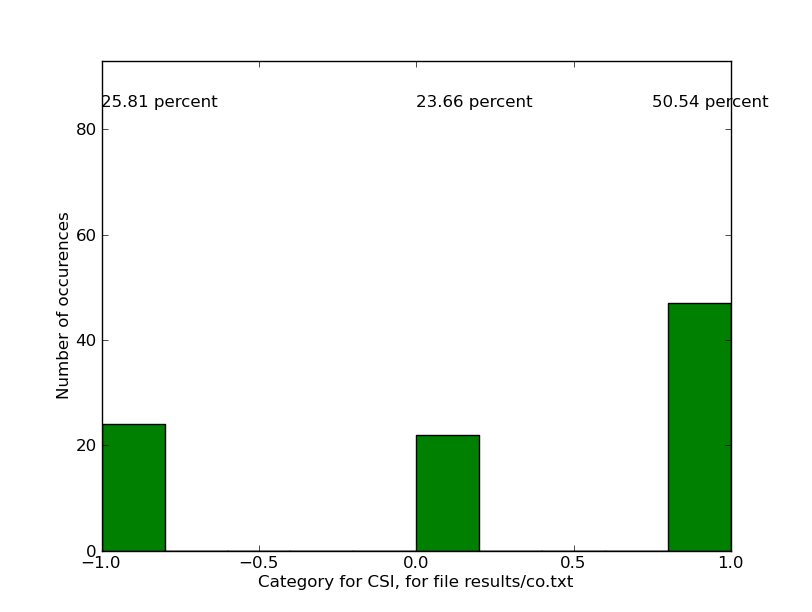
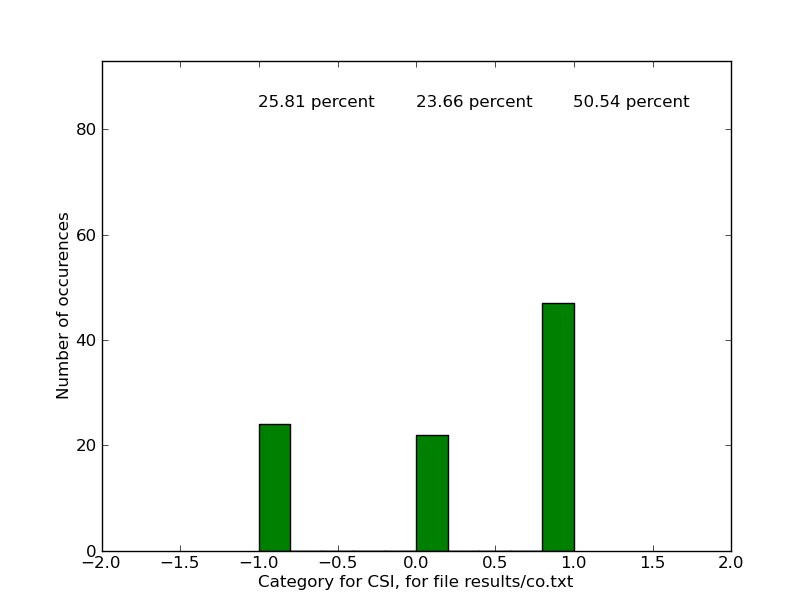
more histograms

diff --git a/make_histograms.py b/make_histograms.py
@@ -20,7 +20,7 @@ def read_line_position(lines, pos):
 	histList = []
 	for line in lines:
 		splits = line.split(' ')
-		print splits[pos]
+		#print splits[pos]
 		# in case we have endline chars:
 		splits[pos] = splits[pos].replace('\n', '')
 		histList.append(float(splits[pos]))
@@ -32,7 +32,7 @@ def make_plot(histList, f1):
 	plt.hist(histList, facecolor='g')
 	plt.ylabel('Number of occurences')
 	plt.xlabel("Category for CSI, for file %s" % f1)
-	plt.axis([-1, 1, 0, len_list])
+	plt.axis([-2, 2, 0, len_list])
 	
 	neg1 = 0
 	for x in histList:
@@ -59,7 +59,7 @@ def make_plot(histList, f1):
 	
 	freq_neg1 = ((float(neg1) / float(len_list)) * 100.0)
 	freq_neg1 = "%3.2f percent" % freq_neg1
-	plt.text(0.75, (len_list * 0.9), freq_neg1)
+	plt.text(1, (len_list * 0.9), freq_neg1)
 	
 	plt.show()
 	
@@ -84,36 +84,38 @@ def get_diffs(list1, list2):
 def make_plot_diffs(histList, f1):
 	#nothing yet
 	len_list = len(histList)
-	plt.hist(histList, facecolor='g')
+	
+	# Notes on this:
+	### You will have to play with 'bin' arg to get good looking bars.
+	plt.hist(histList, facecolor='g', bins=50, normed=0)
 	plt.ylabel('Number of occurences')
 	plt.xlabel("Diff btwn Shifts, for file %s" % f1)
-	plt.axis([-5, 5, 0, len_list])
+	plt.axis([-5, 5, 0, len_list / 2])
 	plt.show()
 	
 	
-def load_graph(filename):
+def load_graph_1(filename):
 	lines = import_results(filename)
 	histList = read_line_position(lines, 2)
 	make_plot(histList, filename)
 	
+def load_graph_2(filename):
 	# load for diffs:
-	#lines = import_results(filename)
-	#histList1 = read_line_position(lines, 3)
-	#histList2 = read_line_position(lines, 4)
-	#histList3 = get_diffs(histList1, histList2)
-	#make_plot_diffs(histList3, filename)
-	
+	lines = import_results(filename)
+	histList1 = read_line_position(lines, 3)
+	histList2 = read_line_position(lines, 4)
+	histList3 = get_diffs(histList1, histList2)
+	make_plot_diffs(histList3, filename)
 	
 	
 	
 def main():
-	f1 = "results/ca.txt"
-	f2 = "results/cb.txt"
-	f3 = "results/co.txt"
+	file1 = "results/ca.txt"
+	file2 = "results/cb.txt"
+	file3 = "results/co.txt"
 
-	#load_graph(f1)
-	#load_graph(f2)
-	load_graph(f3)
+	#load_graph_1(f3)
+	load_graph_2(file1)
 	return 0
 
 
